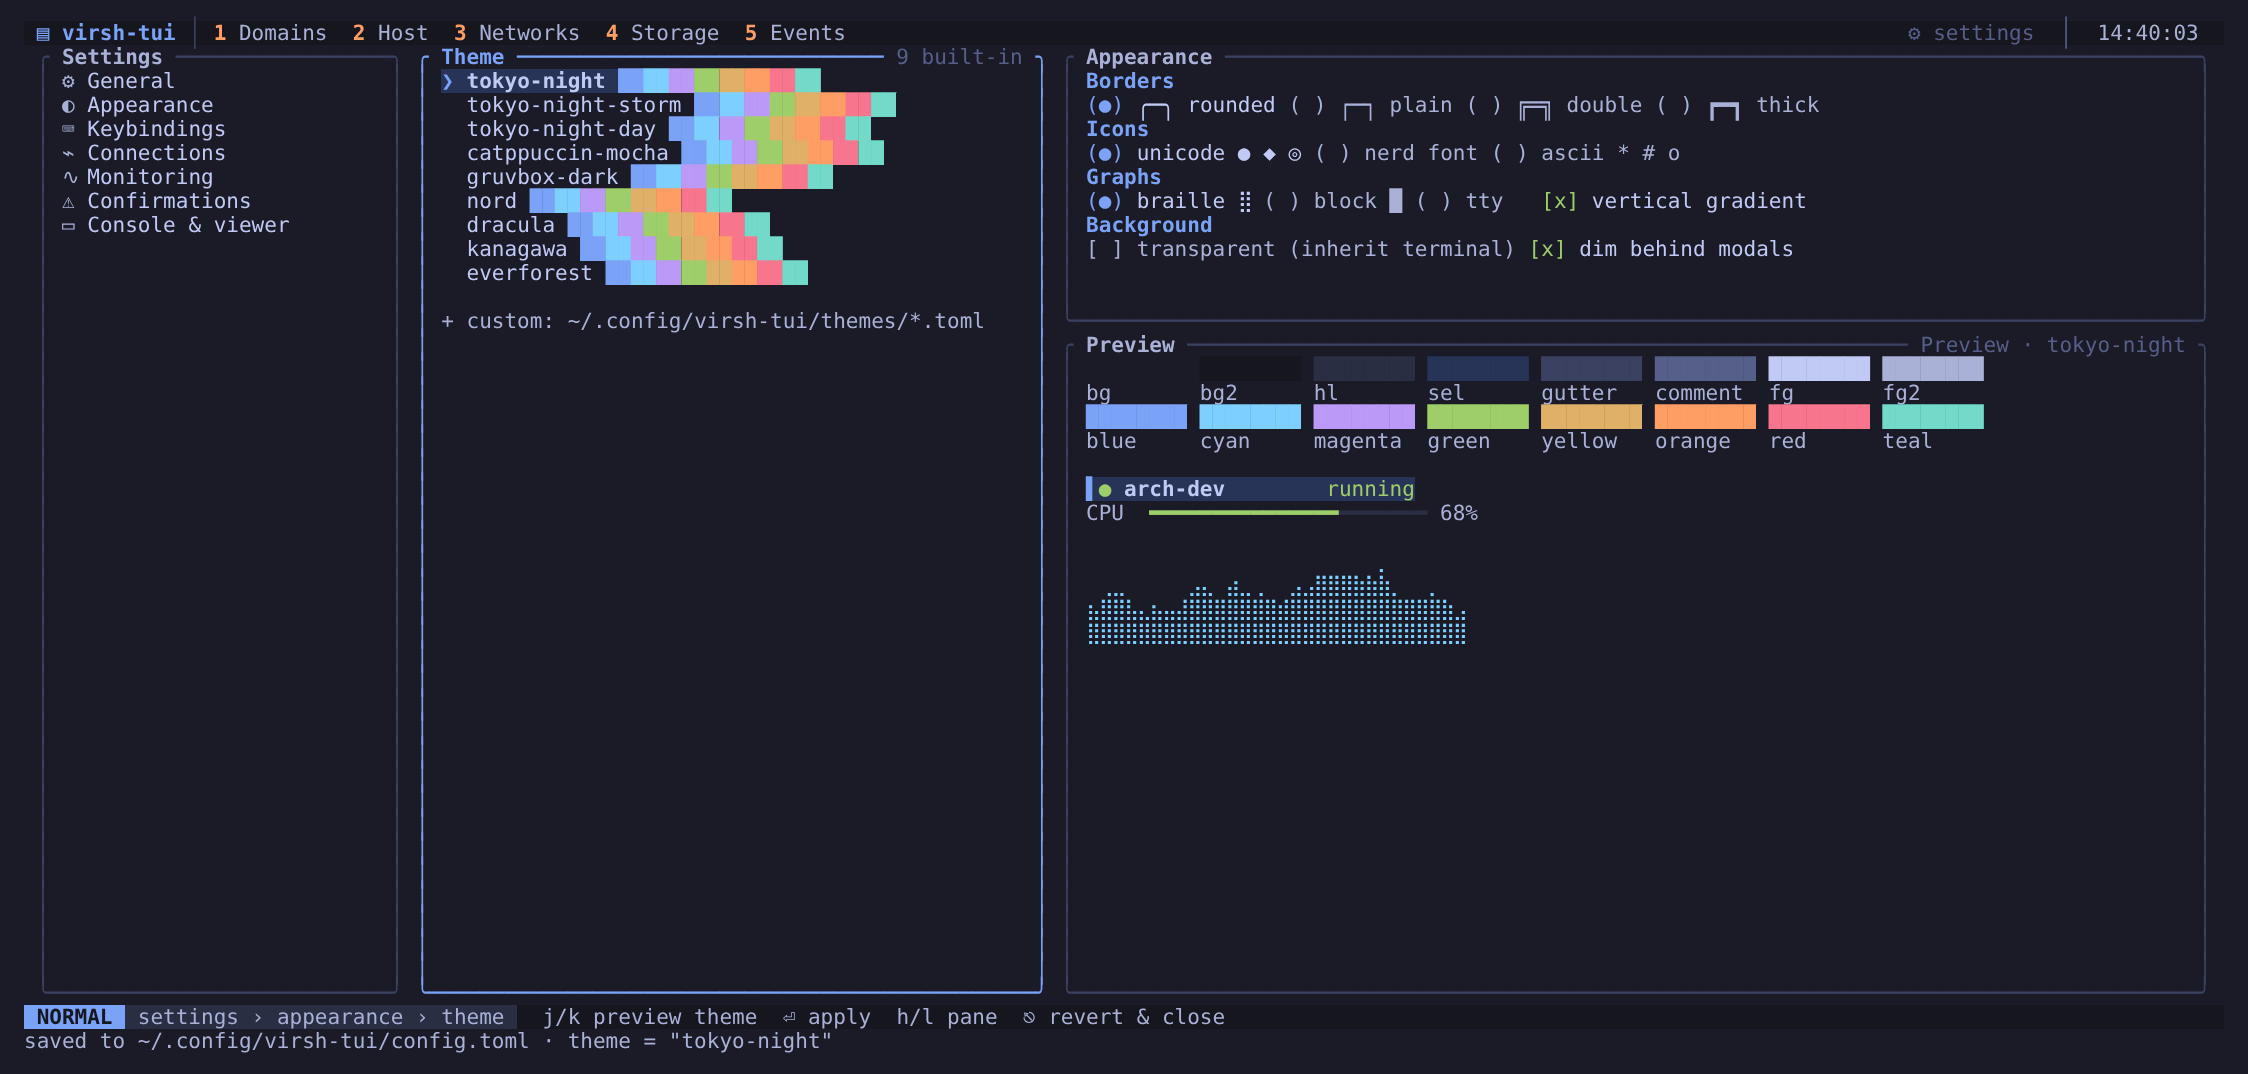
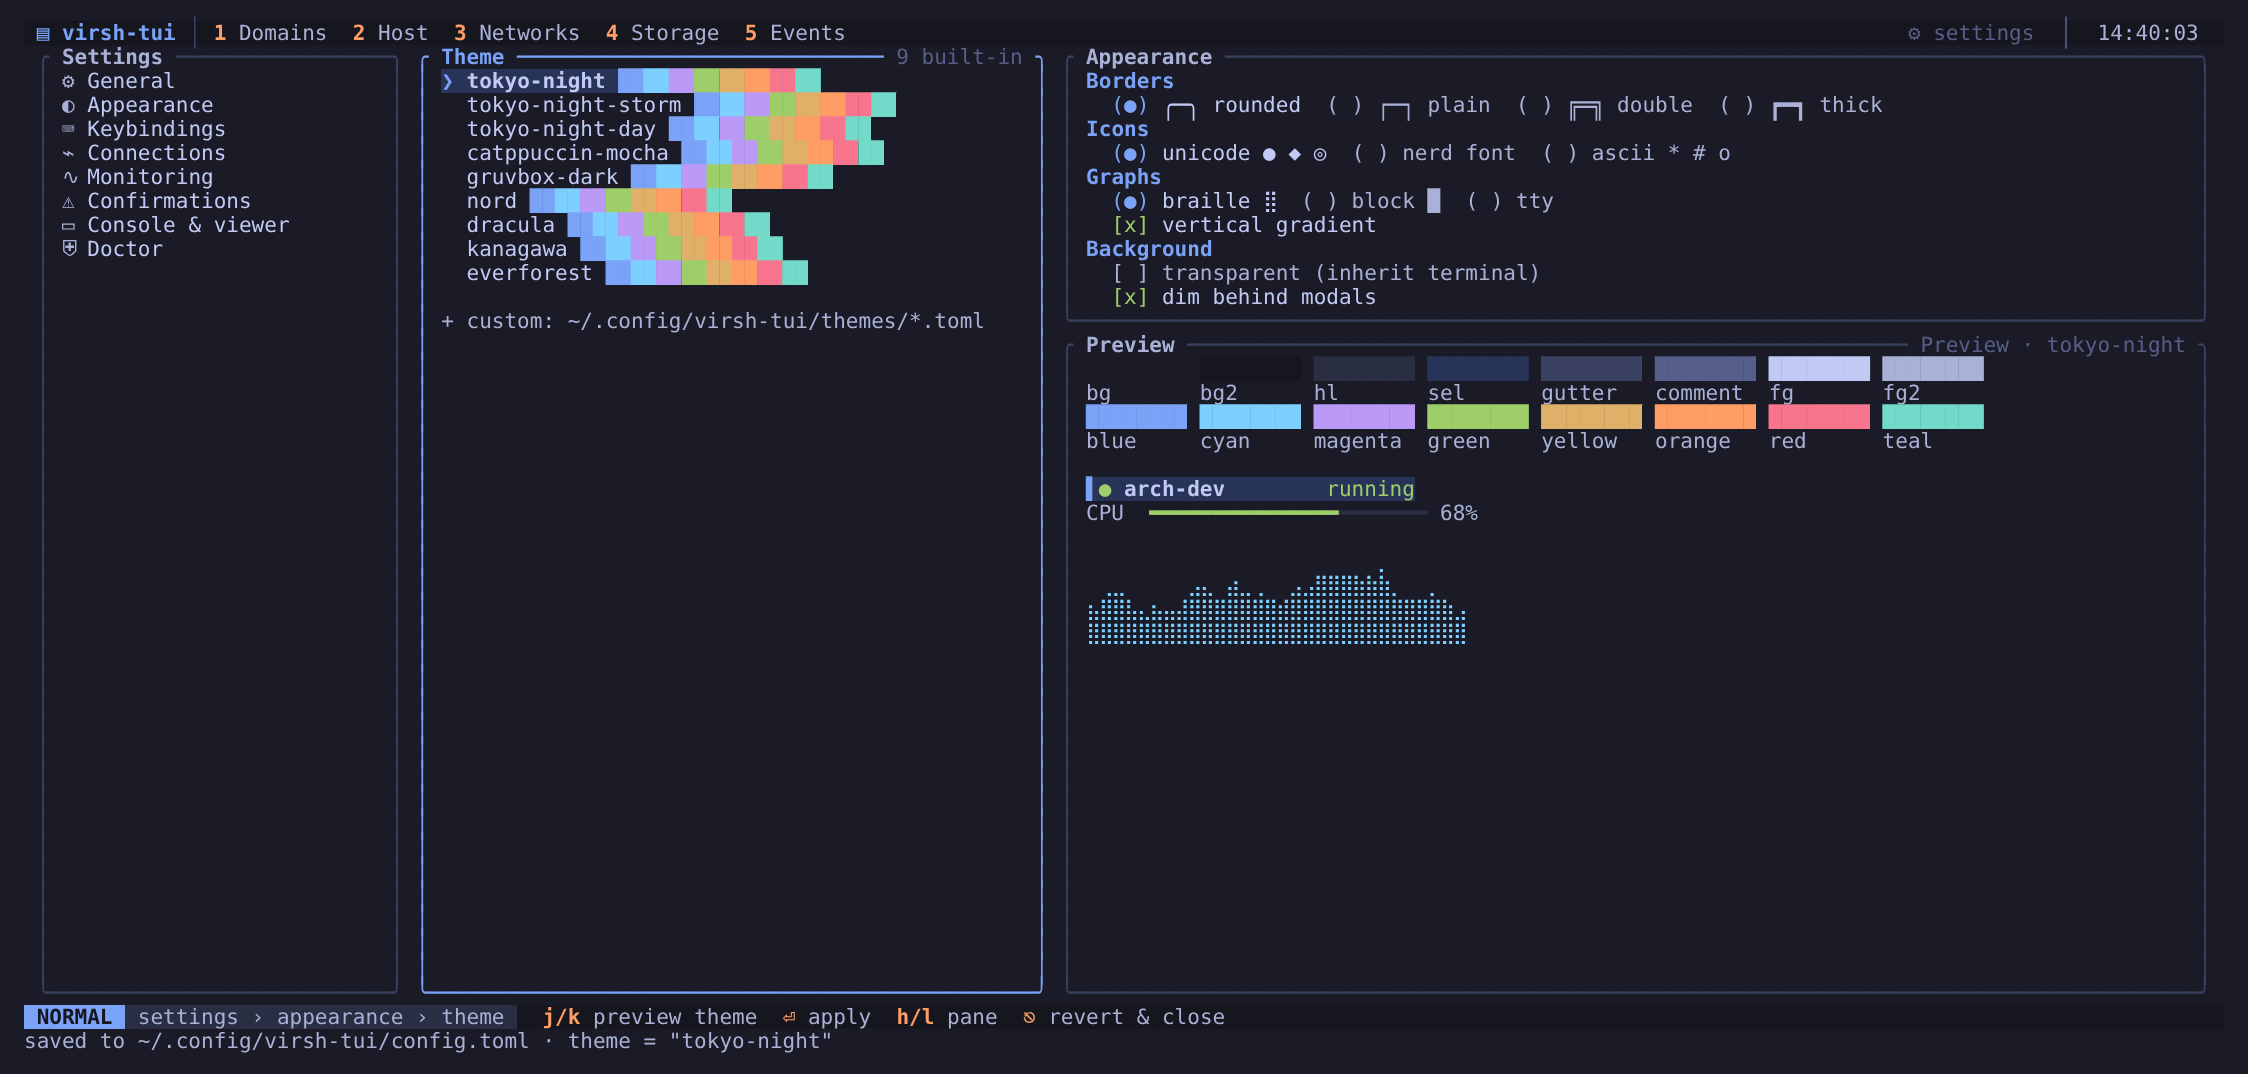
docs: doctor

Changed region(s): [[0.4671, 0.1844, 0.8096, 0.2765], [0.4671, 0.0922, 0.8407, 0.1536], [0.0311, 0.2151, 0.0623, 0.2458]]

diff --git a/src/app/render.rs b/src/app/render.rs
@@ -187,6 +187,14 @@ pub(super) fn dump_frame(
             &crate::input::keymap::default_map(),
             &crate::input::keymap_file::KeymapFile::in_memory(),
         ),
+        "doctor" => ui::views::settings::render(
+            f,
+            theme,
+            &crate::config::Config::default(),
+            &ui::views::settings::SettingsState::demo_doctor(&crate::config::Config::default()),
+            &crate::input::keymap::default_map(),
+            &crate::input::keymap_file::KeymapFile::in_memory(),
+        ),
         "events" => ui::views::events::render(f, theme, &ui::views::events::EventsState::demo()),
         "wizard" => {
             ui::views::dashboard::render(f, theme, dash);

diff --git a/tests/doctor_cli.rs b/tests/doctor_cli.rs
@@ -18,3 +18,18 @@ fn doctor_demo_prints_report_and_fails_on_errors() {
     // stdout is a pipe: no colours.
     assert!(!stdout.contains('\x1b'));
 }
+
+#[test]
+fn doctor_screen_dump() {
+    let dir = tempfile::tempdir().unwrap();
+    let path = dir.path().join("doctor.ans");
+    let status = Command::new(env!("CARGO_BIN_EXE_virsh-tui"))
+        .args(["--demo", "--frozen", "--screen", "doctor", "--dump"])
+        .arg(&path)
+        .status()
+        .unwrap();
+    assert!(status.success());
+    let text = std::fs::read_to_string(&path).unwrap();
+    assert!(text.contains("not in group libvirt"), "{text}");
+    assert!(text.contains("sudo usermod -aG libvirt demo"));
+}

diff --git a/src/ui/views/settings.rs b/src/ui/views/settings.rs
@@ -106,6 +106,19 @@ impl SettingsState {
         }
     }
 
+    /// Doctor with the demo report, `permissions` selected (screenshots).
+    pub fn demo_doctor(config: &Config) -> Self {
+        let mut st = Self::open_doctor(config);
+        let report = crate::doctor::demo_report();
+        st.doctor.selected = report
+            .checks
+            .iter()
+            .position(|c| c.label == "permissions")
+            .unwrap_or(0);
+        st.doctor.report = Some(report);
+        st
+    }
+
     /// Selected category.
     pub fn category(&self) -> Category {
         Category::ALL[self.cat.min(Category::ALL.len() - 1)].0

diff --git a/docs/DESIGN.md b/docs/DESIGN.md
@@ -175,12 +175,13 @@ History windows: `t` cycles 60 s → 5 min → 1 h (ring buffers per domain per 
 - **CONFIRM modal** (red border, CONFIRM mode): question with names highlighted, consequences in plain words, options (after-revert state, `--force`, "snapshot current state first" ON by default), command list, `n` cancel / `y` revert (red bg).
 
 ### 10 · Settings (`,`)
-- Categories: General, Appearance, Keybindings, Connections, Monitoring, Confirmations, Console & viewer.
+- Categories: General, Appearance, Keybindings, Connections, Monitoring, Confirmations, Console & viewer, Doctor (`⛨`).
 - General › Help › "key hints" (`[x]` by default, `general.key_hints`): off drops every key hint — status bars, domain action rows, the not-running start hint, panel footers, palette/ISO picker/wizard/hardware key lines. Mode pill, breadcrumb, counters, dialog buttons and the which-key popup stay; `?` still lists the keys.
 - Theme list with 8-colour swatch strip; `j/k` previews **live** (whole app re-themes), `⏎` applies, `⎋` reverts.
 - Appearance options: borders (rounded/plain/double/thick), icons (unicode/nerd/ascii), graphs (braille/block/tty + gradient), transparent background, dim behind modals.
 - Preview panel: 16-token palette + sample rows + gauge + chart.
 - Keybindings: every remappable action grouped in sections (Navigation, Modes, Domain, Yank, Leader, Monitor, App), label left, keys in a column (`S · Space q`, `—` unbound), `● custom` (magenta) for entries in `keymap.toml`, destructive labels red, last row "reset all to defaults". Keys: `/` filter (label, name or key), `⏎` capture & replace, `a` capture & add, `d` default; capture shows `press keys… <tokens>` with `⏎ confirm · ⌫ undo · ⎋ cancel`. Conflicts ask `<keys> is bound to <label>.` (exact) or `<keys> would hide <keys> (<label>), ….` (prefix), then `Replace? <label> will have no key.` (or `will lose those keys.` when it keeps others) `  y replace · n cancel`; the edited action stays selected (a filter it no longer matches is cleared); reset all asks `Reset N custom bindings to defaults? A backup is kept in keymap.toml.bak.  y reset · n cancel`. Saved to `keymap.toml` (comments kept) and applied live; `--demo` appends `· demo: not saved`.
+- Doctor (`:doctor`, CLI `--doctor`): read-only checks in four sections (Connection: virsh, URI, connection, permissions, events, networks, UEFI firmware · Tools: graphical viewer, virt-install, virt-clone, editor, clipboard · Files: config.toml, keymap.toml, theme, log · Terminal: size, colours, glyphs). Row `glyph label value` with `✓` green, `⚠` yellow, `✗` red, `·`/`–` comment; `f fix` / `y copy` marks in orange; panel title right `13 ok · 2 warnings · 1 error` (`checking…` and `◌` rows while running). The selected row shows `→ <hint>`, `fix: <description>` and `run: <command>` (cyan) under the list. Keys: `j/k`, `r` re-run, `f` fix (Set/Connect ask `Set <key> to <value>?` / `Connect to <uri>?` with `y/n` on the message line; virsh fixes open the CONFIRM modal over Settings; config/keymap open the editor), `y` copy the root command (`✓ command copied`), `Y` copy the report (`✓ report copied`). Root commands are never run. Message line default: `checks are read-only · f applies a fix after asking`. `--demo`: fixed report, Set fixes end `· demo: not saved`.
 - Persisted to `~/.config/virsh-tui/config.toml` (keybindings: `keymap.toml`).
 
 ---

diff --git a/book/src/configuration.md b/book/src/configuration.md
@@ -86,7 +86,8 @@ The editor is chosen in this order: `$VISUAL`, `$EDITOR`,
 ## Settings screen
 
 `,` opens the settings. The categories on the left are General, Appearance,
-Keybindings, Connections, Monitoring, Confirmations, and Console & viewer;
+Keybindings, Connections, Monitoring, Confirmations, Console & viewer, and
+Doctor;
 it opens on General with the category list focused (`Enter` or `l` enters a
 category). `j` and `k` move through the options; in the theme list they also preview the
 theme live. `Enter` applies and saves, `h` and `l` switch panes, `Esc`
@@ -94,6 +95,34 @@ reverts unsaved previews and closes.
 
 Keybindings lists every remappable action with its keys and lets you change
 them in place; see [Remapping keys](keys.md#from-the-settings).
+
+### Doctor
+
+![Settings › Doctor](images/doctor.png)
+
+Doctor checks the environment and says what to do about each problem: the
+`virsh` client, the connection and your permissions on it, the event stream,
+active networks, UEFI firmware, the graphical viewer, `virt-install` and
+`virt-clone`, the editor, the clipboard, `config.toml`, `keymap.toml`, the
+theme, the log file and the terminal (size, colours, glyph settings).
+`:doctor` opens it directly, and `virsh-tui --doctor` prints the same report
+in the shell (see [Troubleshooting](troubleshooting.md)).
+
+The checks only read: they run `virsh` queries, look up programs in `PATH`
+and read files. They start when the category is shown; `r` runs them again.
+The selected row shows its hint below the list:
+
+- `f` applies a fix that virsh-tui can do itself, after asking: set
+  `default_uri` to your `LIBVIRT_DEFAULT_URI`, switch the viewer to the one
+  you have installed, go back to the default theme, connect to
+  `qemu:///session` when `qemu:///system` refuses you, start and autostart
+  the inactive `default` network (the usual confirmation with the
+  commands), or open a broken `config.toml` / `keymap.toml` in the editor.
+- `y` copies the command for a fix that needs root, such as
+  `sudo usermod -aG libvirt <user>`, `sudo systemctl enable --now …` or the
+  package install for your distribution (Arch, Debian/Ubuntu, Fedora/RHEL,
+  openSUSE). virsh-tui never runs these itself.
+- `Y` copies the whole report, ready to paste into a bug report.
 
 General › **key hints** turns off the key hints once you know the keys
 (`:set key_hints=false` does the same): the status bars, the actions under the

diff --git a/book/src/cli.md b/book/src/cli.md
@@ -13,6 +13,7 @@ virsh-tui [OPTIONS]
 | `--config <PATH>` | use this config file instead of `~/.config/virsh-tui/config.toml` |
 | `--screen <NAME>` | open on a given screen (see below) |
 | `--probe` | print the parsed domains, host, networks and pools as JSON and exit (read-only) |
+| `--doctor` | check the environment, print a report with hints and exit; exit code 1 when a check failed (read-only) |
 | `--dump <FILE>` | render one frame to an ANSI file and exit |
 | `--size <WxH>` | frame size for `--dump`, default `174x43` |
 | `--frozen` | freeze the demo clock and fill the graph history (for tests and screenshots) |
@@ -20,8 +21,8 @@ virsh-tui [OPTIONS]
 | `-V`, `--version` | print the version |
 
 `--screen` accepts `dashboard`, `host`, `networks`, `storage`, `events`,
-`detail`, `monitor`, `hardware`, `snapshots`, `wizard`, `palette`, `help`
-and `settings`. Without `--dump` it only changes the start view for the five
+`detail`, `monitor`, `hardware`, `snapshots`, `wizard`, `palette`, `help`,
+`settings` and `doctor`. Without `--dump` it only changes the start view for the five
 top-level views.
 
 ## Examples
@@ -35,6 +36,9 @@ virsh-tui -c qemu+ssh://admin@hv01/system
 
 # See what the keys would do, without changing anything
 virsh-tui --dry-run
+
+# Check the environment before reporting a problem
+virsh-tui --doctor
 
 # Check what virsh-tui parses from your host
 virsh-tui --probe | jq '.domains[].name'

diff --git a/book/src/troubleshooting.md b/book/src/troubleshooting.md
@@ -1,5 +1,10 @@
 # Troubleshooting
 
+Start with `virsh-tui --doctor` (or `:doctor` inside the app). It checks
+the client, the connection, permissions, networks, firmware, tools, your
+config files and the terminal, and prints a hint for each problem. Fixes that
+need root are printed as commands for you to run.
+
 Most problems come from `virsh` itself. Run the same thing in a shell first:
 `virsh -c <uri> list --all`. If that fails, virsh-tui fails the same way.
 
@@ -90,7 +95,7 @@ current state before retrying: earlier steps may already have succeeded.
 
 ## Reporting a bug
 
-Include the version (`virsh-tui -V`), `virsh --version`, the URI type
-(system, session, remote), what you pressed, and the log from
+Include the output of `virsh-tui --doctor` (it has the versions, OS and URI;
+`Y` in Settings › Doctor copies it), what you pressed, and the log from
 `~/.local/state/virsh-tui/virsh-tui.log`. Start with
 `RUST_LOG=virsh_tui=debug` for a detailed log.

diff --git a/book/src/safety.md b/book/src/safety.md
@@ -106,3 +106,11 @@ edits remain visible and another apply is blocked. Record any values you need,
 discard the draft and reopen domain details to reload the configuration before
 retrying. A successful hardware job also waits for its read-back before another
 apply can start.
+
+## Doctor
+
+The doctor's checks only read (`virsh` queries, `PATH` lookups, files). A fix
+runs only after you press `f` and confirm it, through the same paths as the
+rest of the app: `:set`, the confirmation dialog with the commands, the
+editor, or `:connect`. Fixes that need root are shown and copied, never run:
+virsh-tui does not use `sudo` or `pkexec`.

diff --git a/book/src/command-line.md b/book/src/command-line.md
@@ -50,6 +50,7 @@ reject extra words instead of ignoring them.
 | `:set <key>=<value>` | change a setting, validated, applied at once and saved |
 | `:42` | jump to row 42 |
 | `:messages` | open the message history (job output included; `j`/`k` scroll) |
+| `:doctor` | open Settings › Doctor (environment checks and fixes) |
 | `:help [topic]` | open the help |
 | `:w` | apply hardware changes |
 | `:q` | close the current screen, or quit from the dashboard |
